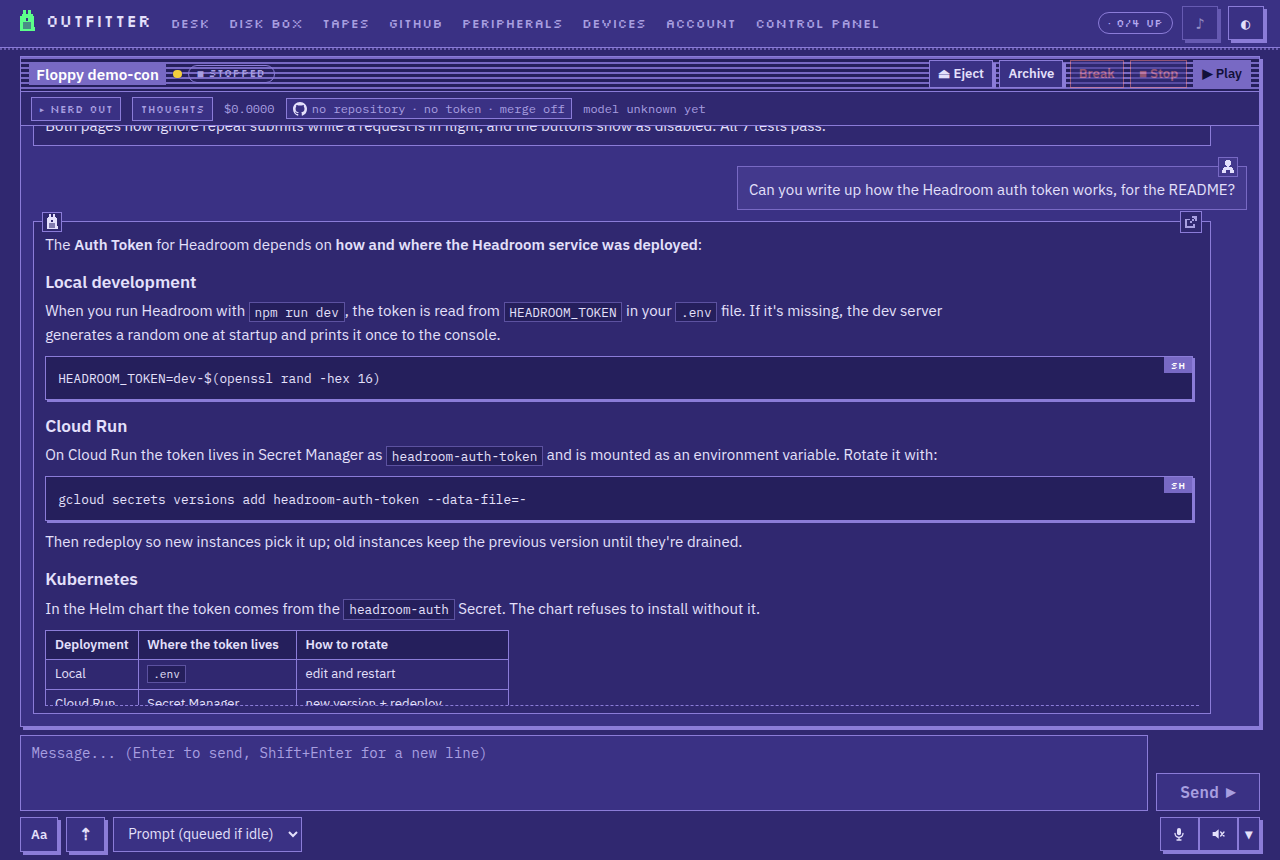
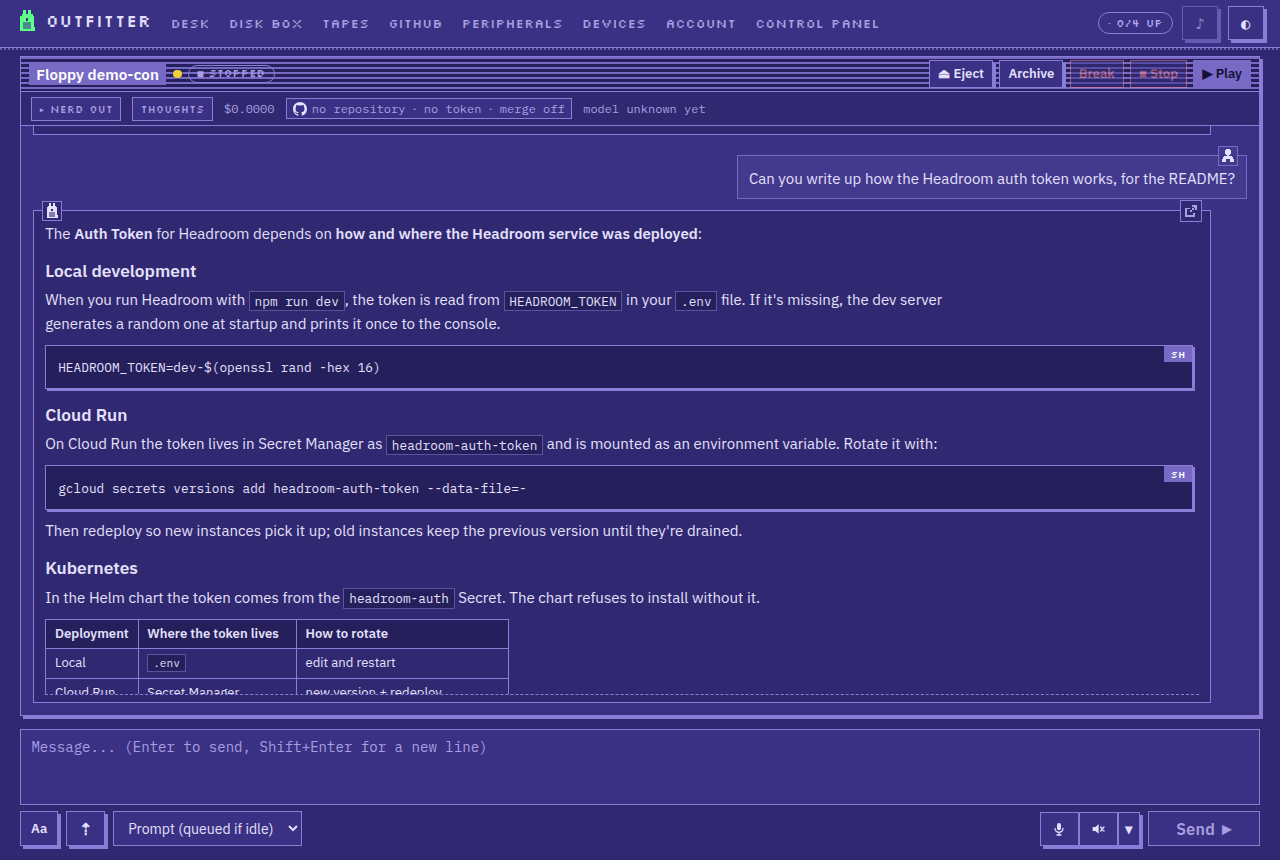
Outfitter web: Send closes the controls row on desktop
Beside the editor, Send left a column of empty space next to any draft taller
than the button. On desktop the editor now spans the full width and Send sits
at the end of the controls row, bottom-right; phones keep Send beside the
editor (their controls row is full). One CSS grid, two template-area layouts.

Claude-Session: https://claude.ai/code/session_012PhBCgpu9D94pRDfncNMV9

diff --git a/outfitter/packages/web/src/components/Composer.tsx b/outfitter/packages/web/src/components/Composer.tsx
@@ -216,71 +216,69 @@ export function Composer({
       <div className="composer-row composer-status-row">
         <div className="composer-status">{status}</div>
       </div>
-      <div className="composer-input-row">
-        <MarkdownEditor
-          value={text}
-          onChange={setText}
-          onSend={() => void send()}
-          enterMode={enterMode}
-          placeholder={placeholderOverride ?? (touch ? "Message…" : `Message... (${sendKeyHint})`)}
-          disabled={disabled}
-          readOnly={voiceBusy}
-          toolsOpen={toolsOpen}
-          toolbarId={toolbarId}
-        />
-        <span
-          className="send-wrap"
-          data-enter-mode={enterMode}
-          title={`Send (${sendKeyHint}). Right-click to set whether Enter sends.`}
-          onContextMenu={openEnterMenu}
-          onPointerDown={armHold}
-          onPointerUp={clearHold}
-          onPointerCancel={cancelHold}
-          onPointerLeave={clearHold}
+      <MarkdownEditor
+        value={text}
+        onChange={setText}
+        onSend={() => void send()}
+        enterMode={enterMode}
+        placeholder={placeholderOverride ?? (touch ? "Message…" : `Message... (${sendKeyHint})`)}
+        disabled={disabled}
+        readOnly={voiceBusy}
+        toolsOpen={toolsOpen}
+        toolbarId={toolbarId}
+      />
+      <span
+        className="send-wrap"
+        data-enter-mode={enterMode}
+        title={`Send (${sendKeyHint}). Right-click to set whether Enter sends.`}
+        onContextMenu={openEnterMenu}
+        onPointerDown={armHold}
+        onPointerUp={clearHold}
+        onPointerCancel={cancelHold}
+        onPointerLeave={clearHold}
+      >
+        <button
+          type="button"
+          className="btn btn-primary send-button"
+          aria-haspopup="menu"
+          aria-expanded={enterMenu}
+          aria-disabled={disabled || voiceBusy || !text.trim() ? true : undefined}
+          onClick={(event) => {
+            if (ignoreClick.current || event.ctrlKey || event.button !== 0) {
+              ignoreClick.current = false;
+              return;
+            }
+            setEnterMenu(false);
+            void send();
+          }}
         >
-          <button
-            type="button"
-            className="btn btn-primary send-button"
-            aria-haspopup="menu"
-            aria-expanded={enterMenu}
-            aria-disabled={disabled || voiceBusy || !text.trim() ? true : undefined}
-            onClick={(event) => {
-              if (ignoreClick.current || event.ctrlKey || event.button !== 0) {
-                ignoreClick.current = false;
-                return;
-              }
-              setEnterMenu(false);
-              void send();
-            }}
-          >
-            {sending ? (
-              <Working label="Sending" />
-            ) : (
-              <>
-                <span className="send-label">Send</span>
-                <span className="send-glyph" aria-hidden="true">
-                  ▶
-                </span>
-              </>
-            )}
-          </button>
-          {enterMenu && (
-            <div ref={enterMenuRef} className="enter-mode-menu" role="menu" aria-label="Enter key">
-              <button type="button" role="menuitemradio" aria-checked={enterMode === "send"} onClick={() => chooseEnterMode("send")}>
-                Enter sends
-              </button>
-              <button
-                type="button"
-                role="menuitemradio"
-                aria-checked={enterMode === "newline"}
-                onClick={() => chooseEnterMode("newline")}
-              >
-                Enter is a new line
-              </button>
-            </div>
+          {sending ? (
+            <Working label="Sending" />
+          ) : (
+            <>
+              <span className="send-label">Send</span>
+              <span className="send-glyph" aria-hidden="true">
+                ▶
+              </span>
+            </>
           )}
-        </span>
-      </div>
+        </button>
+        {enterMenu && (
+          <div ref={enterMenuRef} className="enter-mode-menu" role="menu" aria-label="Enter key">
+            <button type="button" role="menuitemradio" aria-checked={enterMode === "send"} onClick={() => chooseEnterMode("send")}>
+              Enter sends
+            </button>
+            <button
+              type="button"
+              role="menuitemradio"
+              aria-checked={enterMode === "newline"}
+              onClick={() => chooseEnterMode("newline")}
+            >
+              Enter is a new line
+            </button>
+          </div>
+        )}
+      </span>
       <div className="composer-row composer-controls">
         <button
           type="button"

diff --git a/outfitter/packages/web/src/styles/layout.css b/outfitter/packages/web/src/styles/layout.css
@@ -665,10 +665,42 @@
   color: var(--text);
 }
 
+/* One grid, two arrangements. Desktop: the editor spans the full width and Send closes the
+ * controls row in the bottom-right corner (where the eye ends up after writing), so nothing sits
+ * beside the editor and no space is trapped next to a tall draft. Phones (mobile.css) put Send
+ * beside the editor instead, since their controls row has no room left. */
 .composer {
-  display: flex;
-  flex-direction: column;
-  gap: 0.35rem;
+  display: grid;
+  grid-template-columns: minmax(0, 1fr) auto;
+  grid-template-areas:
+    "status status"
+    "editor editor"
+    "controls send"
+    "note note";
+  gap: 0.35rem 0.5rem;
+}
+
+.composer > .composer-status-row {
+  grid-area: status;
+}
+
+.composer > .md-editor-wrap {
+  grid-area: editor;
+  min-width: 0;
+}
+
+.composer > .composer-controls {
+  grid-area: controls;
+  min-width: 0;
+}
+
+.composer > .send-wrap {
+  grid-area: send;
+  align-self: center;
+}
+
+.composer > .voice-note {
+  grid-area: note;
 }
 
 .composer-row {
@@ -707,28 +739,15 @@
   color: var(--accent-contrast);
 }
 
-/* The editor and Send side by side, Send pinned to the bottom edge so it stays next to where
- * you're typing however tall the box grows. */
-.composer-input-row {
-  display: flex;
-  align-items: flex-end;
-  gap: 0.5rem;
-}
-
-.composer-input-row > .md-editor-wrap {
-  flex: 1;
-  min-width: 0;
-}
-
-/* Taller than the rest of the controls by default: Send is the one button you hit every time. */
+/* Larger than the rest of the controls: Send is the one button you hit every time. */
 .send-button {
   display: inline-flex;
   align-items: center;
   justify-content: center;
   gap: 0.45rem;
-  min-height: 48px;
-  min-width: 6.5rem;
-  padding: 0.5rem 1rem;
+  min-height: 42px;
+  min-width: 7rem;
+  padding: 0.4rem 1.1rem;
   font-size: 1rem;
   letter-spacing: 0.02em;
 }

diff --git a/outfitter/packages/web/src/styles/mobile.css b/outfitter/packages/web/src/styles/mobile.css
@@ -500,6 +500,20 @@ select {
     max-height: 55svh;
   }
 
+  /* Send beside the editor, at its bottom edge (by the thumb); the controls row below keeps the
+   * full width for Aa, the size toggle, send mode and voice. */
+  .composer {
+    grid-template-areas:
+      "status status"
+      "editor send"
+      "controls controls"
+      "note note";
+  }
+
+  .composer > .send-wrap {
+    align-self: end;
+  }
+
   .send-button {
     min-width: 4.75rem;
     min-height: 48px;

diff --git a/outfitter/docs/design/README.md b/outfitter/docs/design/README.md
@@ -108,8 +108,11 @@ conversation first:
 - **Transcript spacing.** Cards have smaller gaps and padding, and the who-marks and rail glyphs
   are slightly smaller. Prose in a message is 0.94rem with a 1.55 line height, a little larger
   than the UI around it.
-- **Composer.** The editor and **Send** sit side by side, with Send pinned to the editor's bottom
-  edge. Send is the largest control (48px tall, at least 6.5rem wide, ▶ glyph). With an empty
+- **Composer.** On a desktop the editor spans the full width and **Send** closes the controls row
+  in the bottom-right corner, so no space is trapped beside a tall draft. On a phone Send sits
+  beside the editor at its bottom edge, because the phone controls row has no room for it. Both
+  layouts come from one CSS grid (`grid-template-areas`). Send is the largest control (42px tall
+  on desktop, 48px on touch, at least 7rem wide on desktop, ▶ glyph). With an empty
   draft it dims its colours rather than its opacity, so the label stays readable. The editor
   starts at three lines and grows to `min(26rem, 50vh)`. The ⇡ toggle next to **Aa** switches to
   a tall editor (`min(22rem, 40vh)` up to 70vh; on phones 34svh up to 55svh). The choice is
